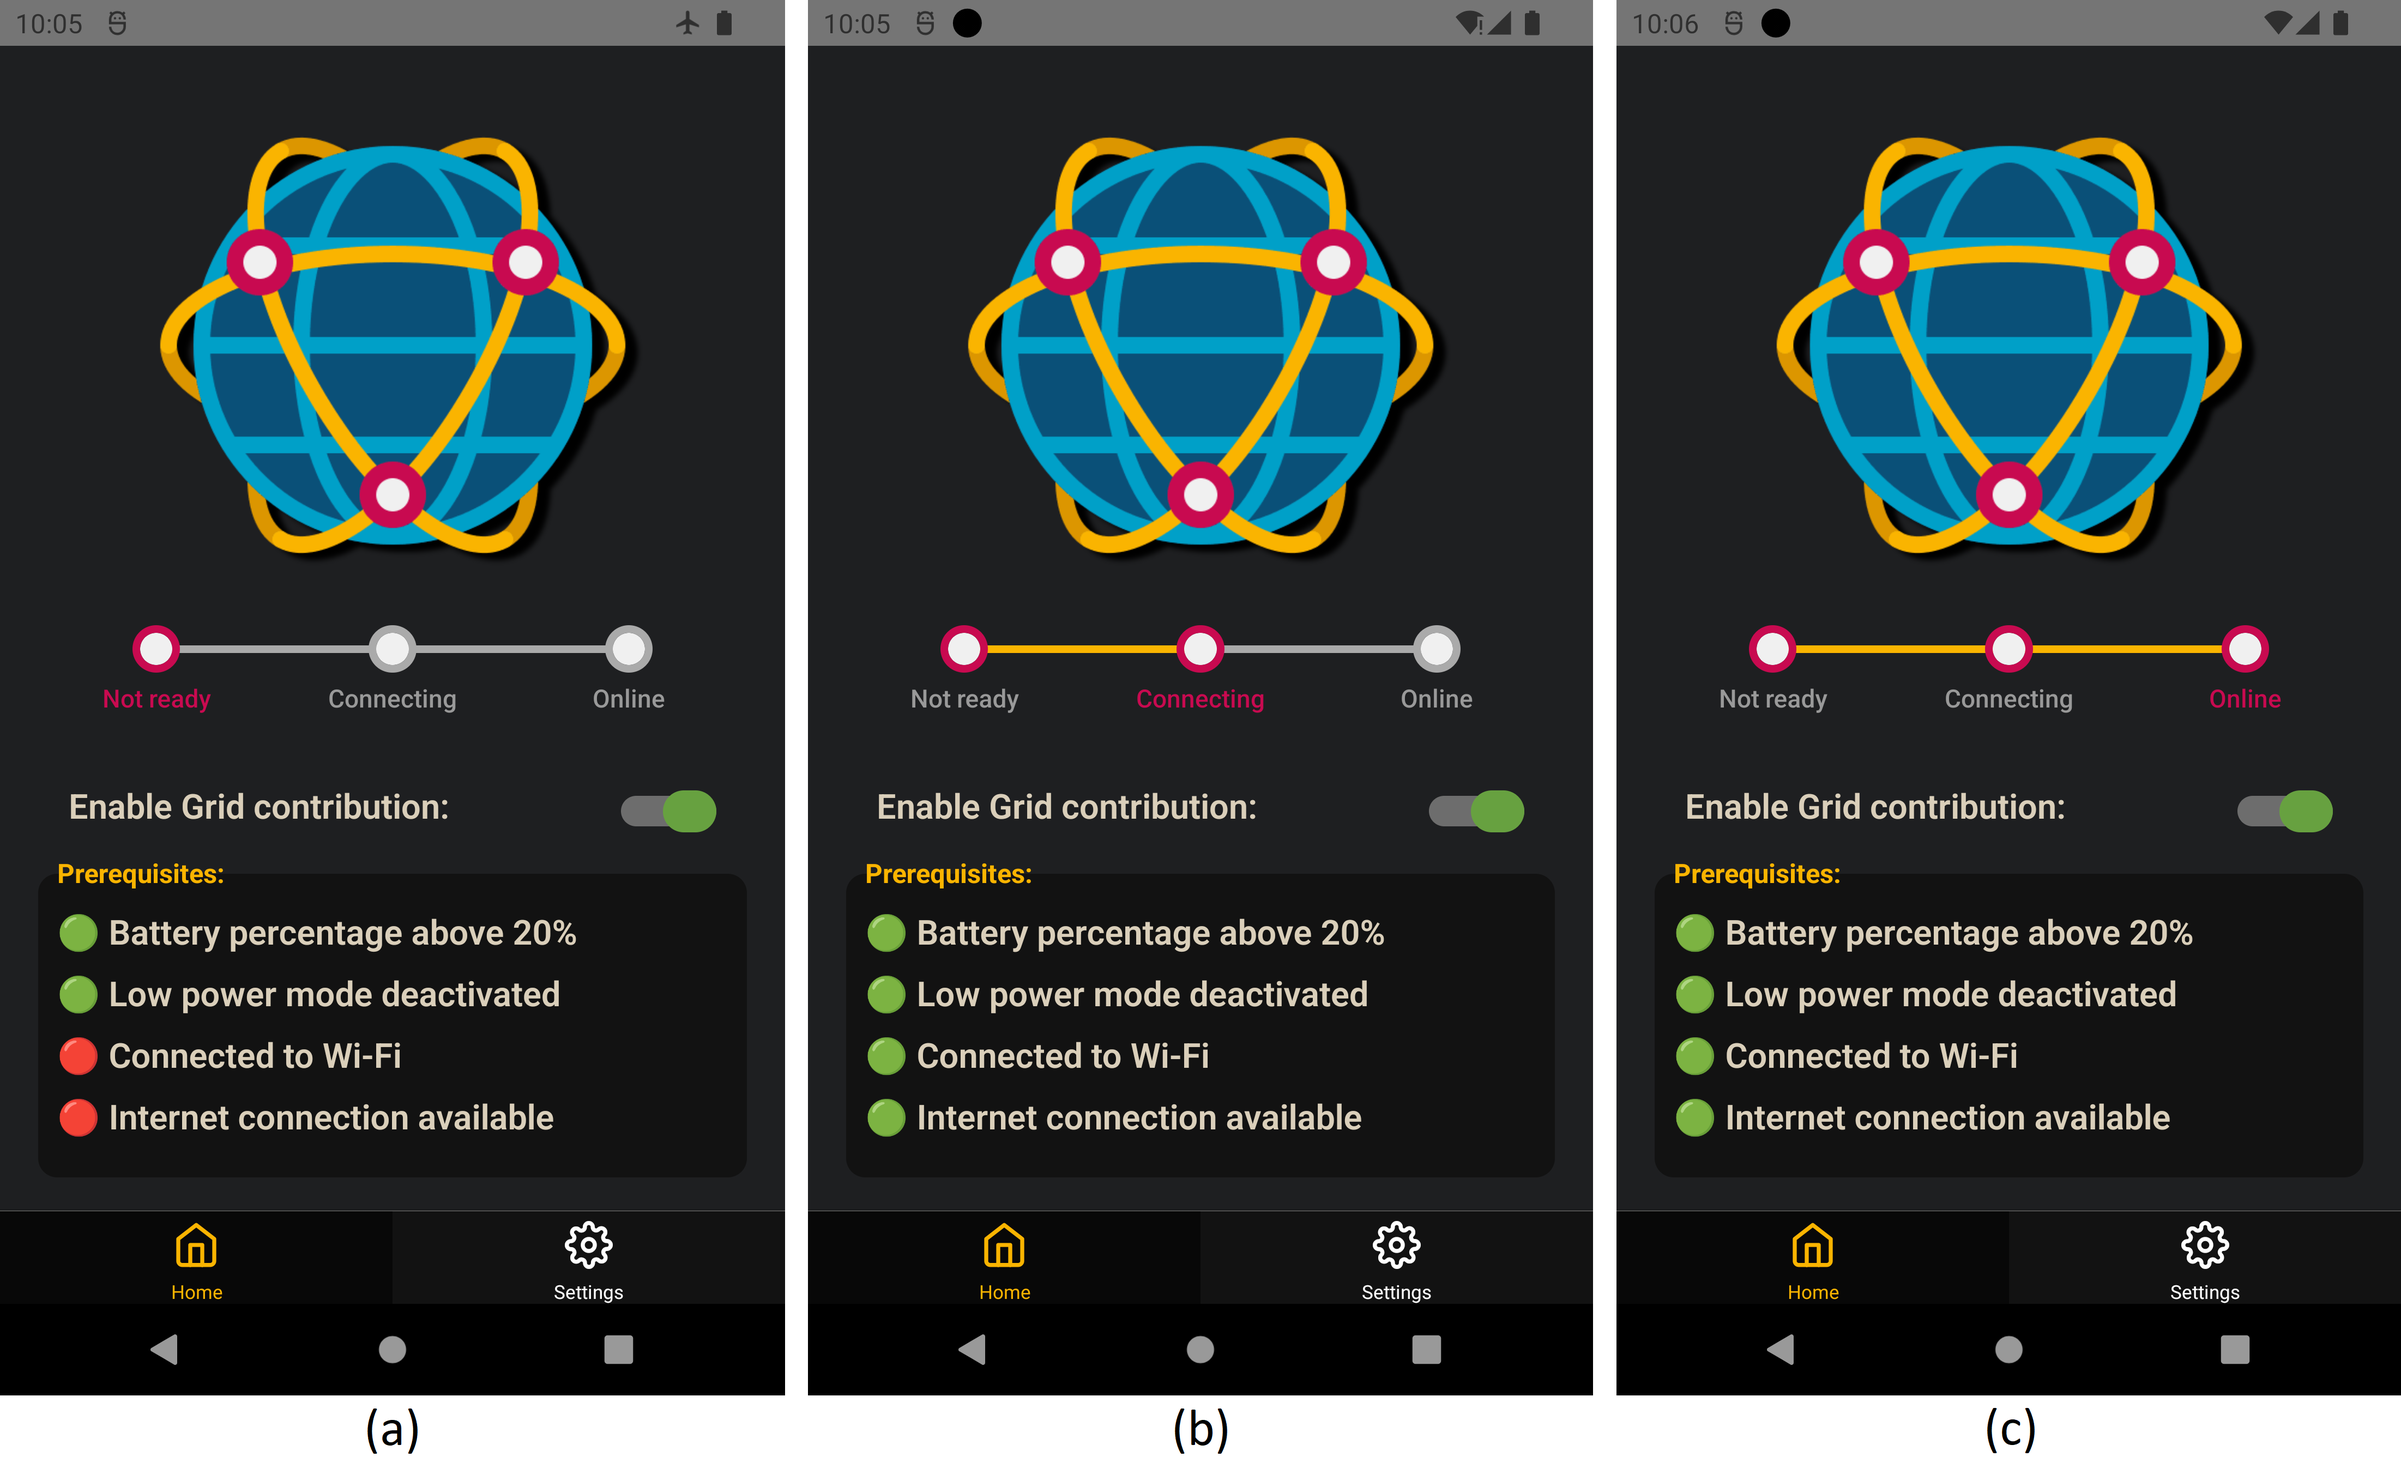
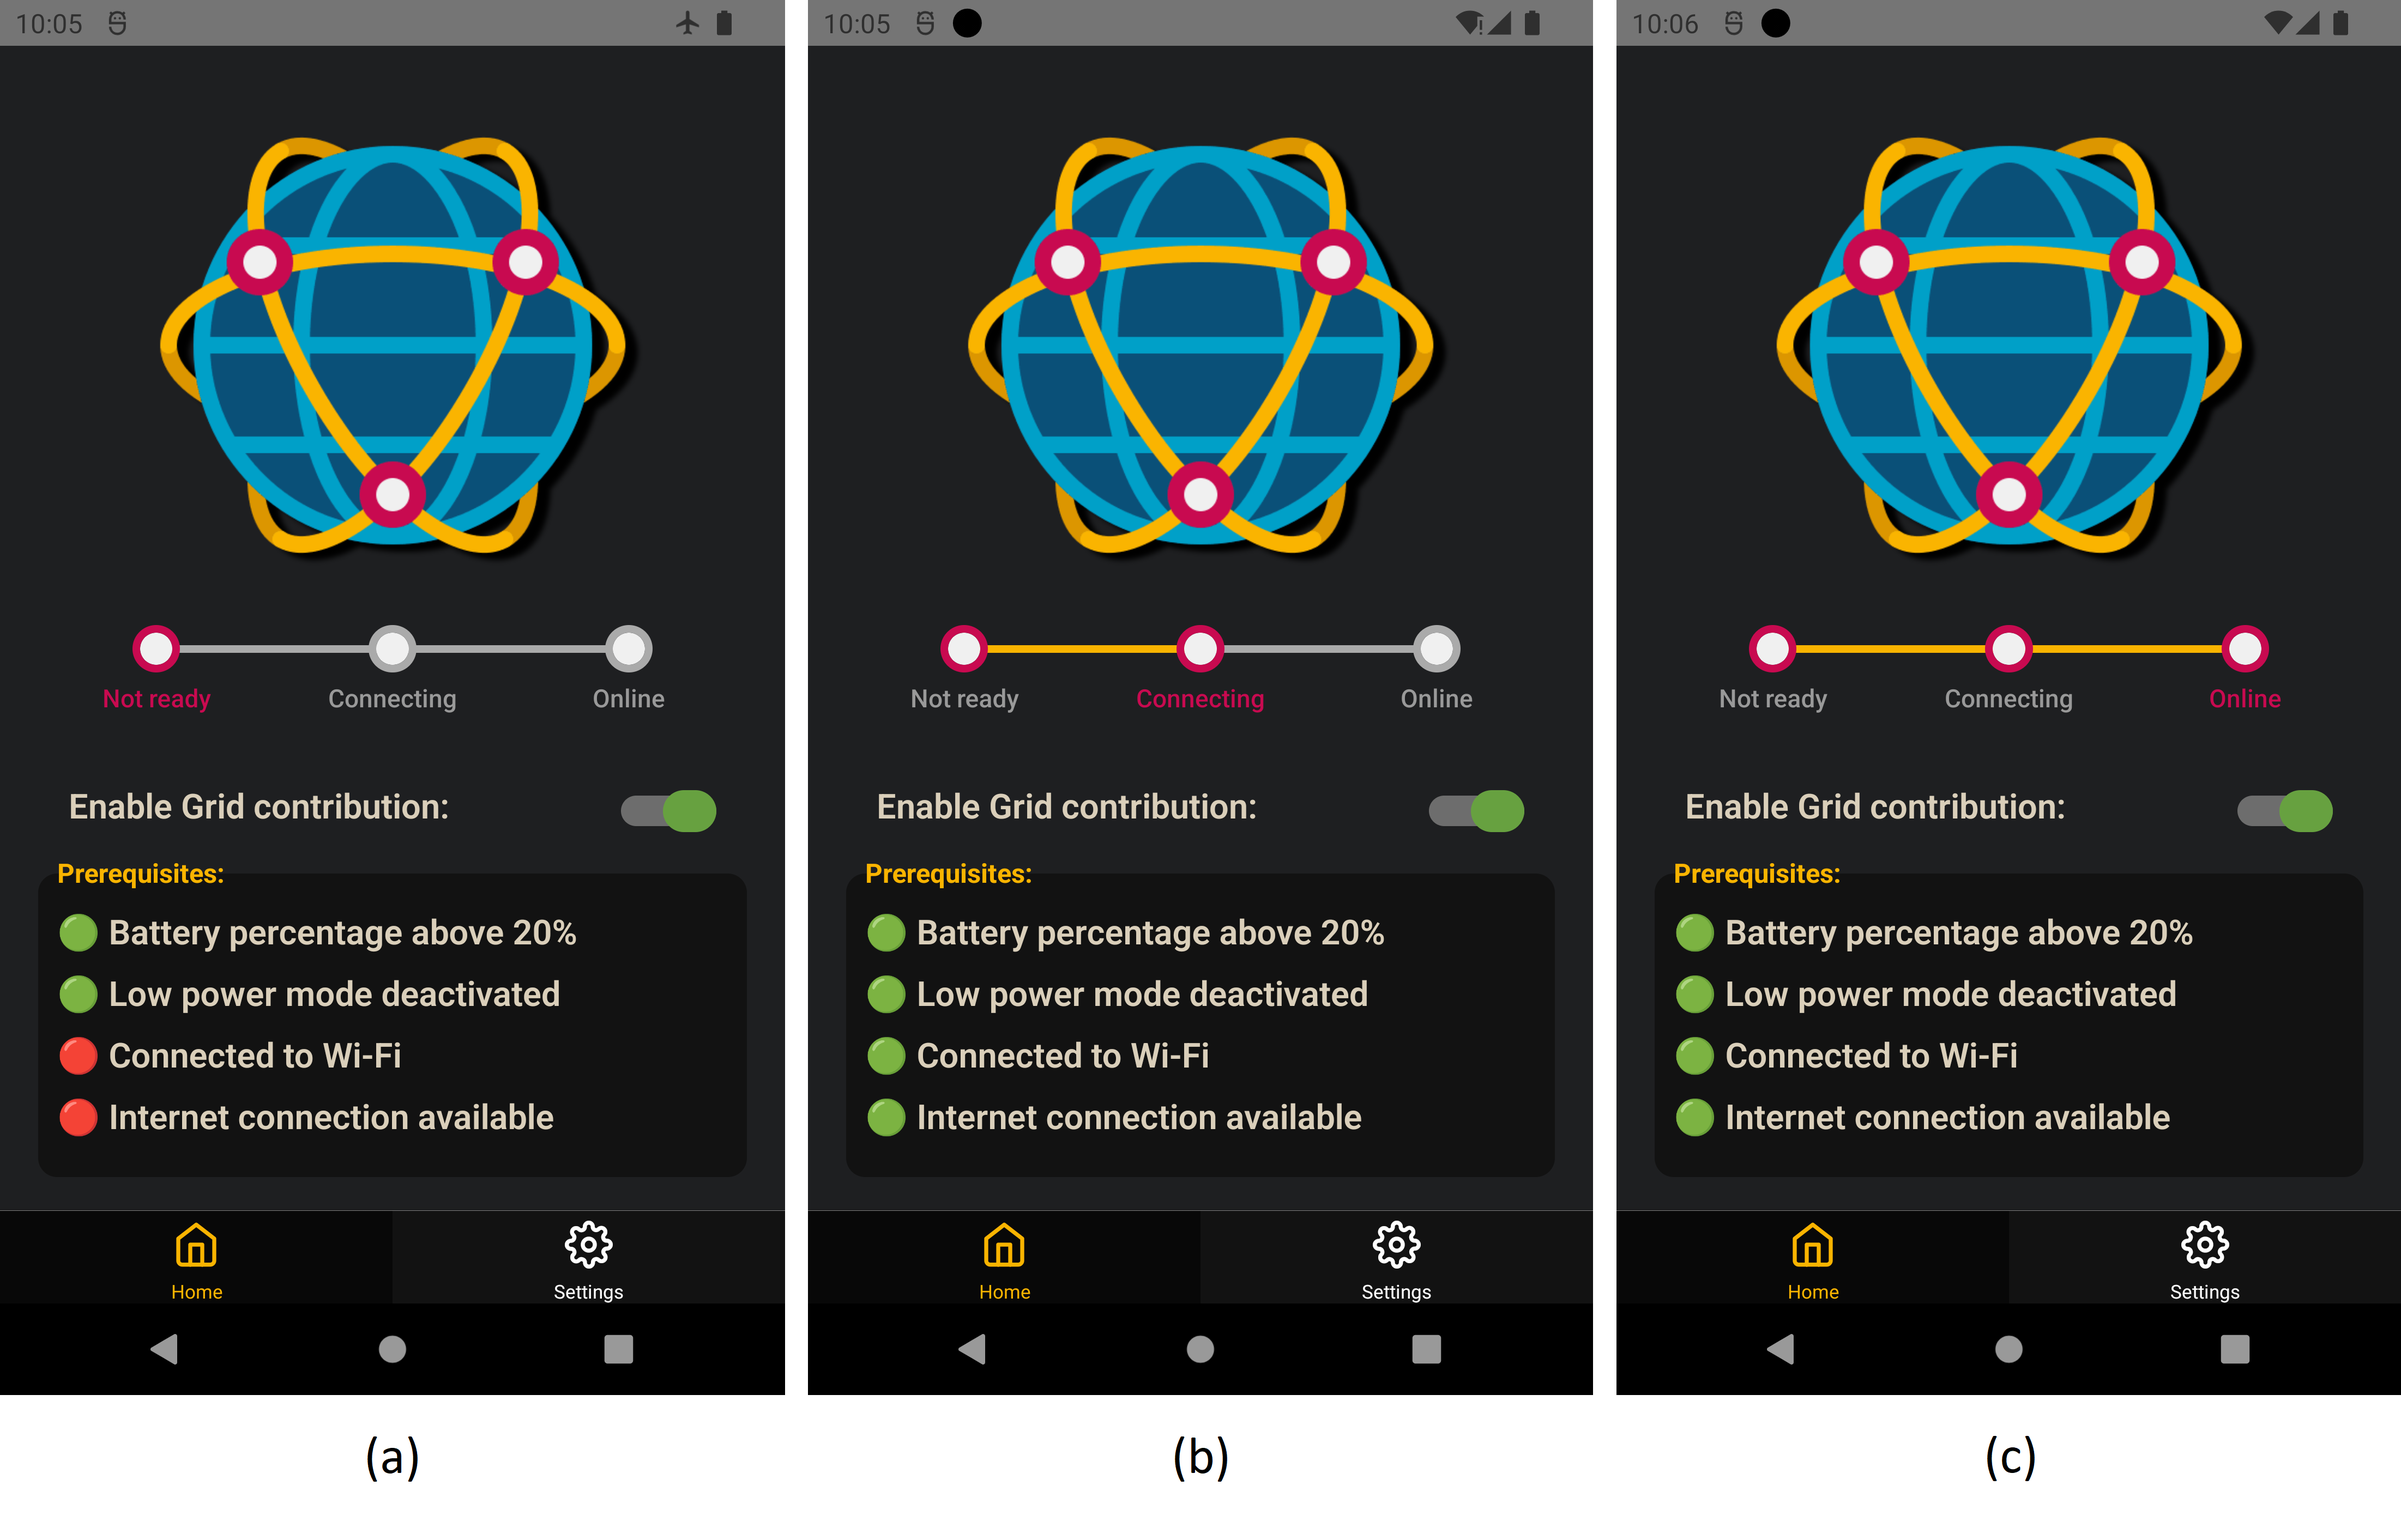
completed 7.2.3

diff --git a/document/chapters/chapter_7/sections/2_simplified_architecture.tex b/document/chapters/chapter_7/sections/2_simplified_architecture.tex
@@ -62,38 +62,52 @@ The construction of the client-specific objects is standardized through the util
 When it comes to the actual computational contribution that the Interconnected Node needs to perform, two key abstractions are present: Job and Task; a Job is an activity that a Slave Peer executes under the guidance of its Master that, after instructing the start of said Job, sends Tasks to execute in that specific Job. This abstraction results in the definition of common interfaces for Job and Task that are then concretized realizing new functionalities that will then be used to execute Grid Services (MapReduceMasterJob, MapReduceMapWorkerJob, etc...); through this mechanism, expanding the support for new Grid Services only requires to define new concrete Jobs and Tasks, realizing their logic and their handlers for the messages exchanged among Nodes.
 
 \subsection{Interconnected Mobile Client}
-TODO
+In this prototype, the mobile incarnation of the Contributing Endpoint takes the name of "Interconnected Mobile Client". The main technology used for realizing this client is React Native (which is also Node.js based); with this framework, it is possible to build mobile applications targeting both Android and iOS devices with just one code base while also taking advantage of most of the modules available on NPM.
+
+Thanks to this Node.js compatibility, the mobile client is able to use the Interconnected Node to connect to the Grid and perform contributions, only requiring to implement previously mentioned client-specific interfaces and to provide an ID for the device (given the limited number of devices in the prototype setting a UUID v4 is generated and used as the ID).
+
+Although React Native also allows targeting iOS devices, this prototype is tested only on Android devices; this limitation is caused by the previously mentioned lack of resources (in particular the unavailability of Apple devices to test it on) but, in theory, the application should also function on iPhones and iPads with little to no changes to the code base.
 
 \begin{figure}[!ht]
     \centering
-    \includegraphics[scale=0.15]{document/chapters/chapter_7/images/interconnected_mobile_home.png}
+    \includegraphics[scale=0.14]{document/chapters/chapter_7/images/interconnected_mobile_home.png}
     \caption{Interconnected Mobile Client}
     \label{fig:interconnected_mobile_home}
 \end{figure}
 
-\begin{figure}[!ht]
-    \centering
-    \includegraphics[width=\linewidth]{document/chapters/chapter_7/images/interconnected_mobile_connection.png}
-    \caption{Interconnected Mobile Client - Connection}
-    \label{fig:interconnected_mobile_connection}
-\end{figure}
+\textit{Figure \ref{fig:interconnected_mobile_home}} shows the GUI of the application: by simply activating the "Enable Grid contribution" switch (\textit{figure \ref{fig:interconnected_mobile_connection}(a)}), the application starts a background process that continues to operate even after the application is closed; Android forces the developer to notify the user of the presence of a background activity by spawning a permanent notification (which can be seen in \textit{figure \ref{fig:notification_contribution}}) that will automatically be removed when the background activity is stopped by disabling the switch.
+
+This background process is responsible for checking a series of conditions (that are listed in the "Prerequisites" section of the GUI) which are necessary for Grid Contribution; when all the conditions are met, the Interconnected Node is started through the use of the previously mentioned Facade exposed by the module. In case even one of the prerequisites is not satisfied anymore, the Interconnected Node is stopped.
 
 \begin{figure}[!ht]
     \centering
-    \includegraphics[scale=0.3]{document/chapters/chapter_7/images/notification_contribution.png}
+    \includegraphics[scale=0.35]{document/chapters/chapter_7/images/notification_contribution.png}
     \caption{Interconnected Mobile Client - Grid contribution enabled notification}
     \label{fig:notification_contribution}
 \end{figure}
 
 \begin{figure}[!ht]
     \centering
-    \includegraphics[scale=0.3]{document/chapters/chapter_7/images/notification_completed.png}
+    \includegraphics[width=\linewidth]{document/chapters/chapter_7/images/interconnected_mobile_connection.png}
+    \caption{Interconnected Mobile Client - Status}
+    \label{fig:interconnected_mobile_connection}
+\end{figure}
+
+\vspace{5mm}
+
+Despite being a background process, the user can check the application's status through the GUI's indicators: after the activation of the background process, the application remains in the "Not ready" state until all the Prerequisites are met (becoming green); after that, there is a transition to the "Connecting" state (\textit{figure \ref{fig:interconnected_mobile_connection}(b)}) and, once the Grid Connection is established, the "Online" state is reached (\textit{figure \ref{fig:interconnected_mobile_connection}(c)}).
+
+When a contribution to a Grid Service is currently being performed, the user is notified by a notification that, once the contribution is over, is then updated showing that the process is complete (\textit{figure \ref{fig:notification_completed}}).
+
+\begin{figure}[!ht]
+    \centering
+    \includegraphics[scale=0.35]{document/chapters/chapter_7/images/notification_completed.png}
     \caption{Interconnected Mobile Client - Grid contribution completed notification}
     \label{fig:notification_completed}
 \end{figure}
 
 \subsection{Interconnected Desktop Client}
-TODO
+Despite being a background process, the user can check the application's status through the GUI's indicators: after the activation of the background process, the application remains in the "Not ready" state until all the Prerequisites are met (becoming green); after that, there is a transition to the "Connecting" state (\textit{figure \ref{fig:interconnected_mobile_connection}(b)}) and, once the Grid Connection is established, the "Online" state is reached (\textit{figure \ref{fig:interconnected_mobile_connection}(c)}).
 
 \begin{figure}[!ht]
     \centering
